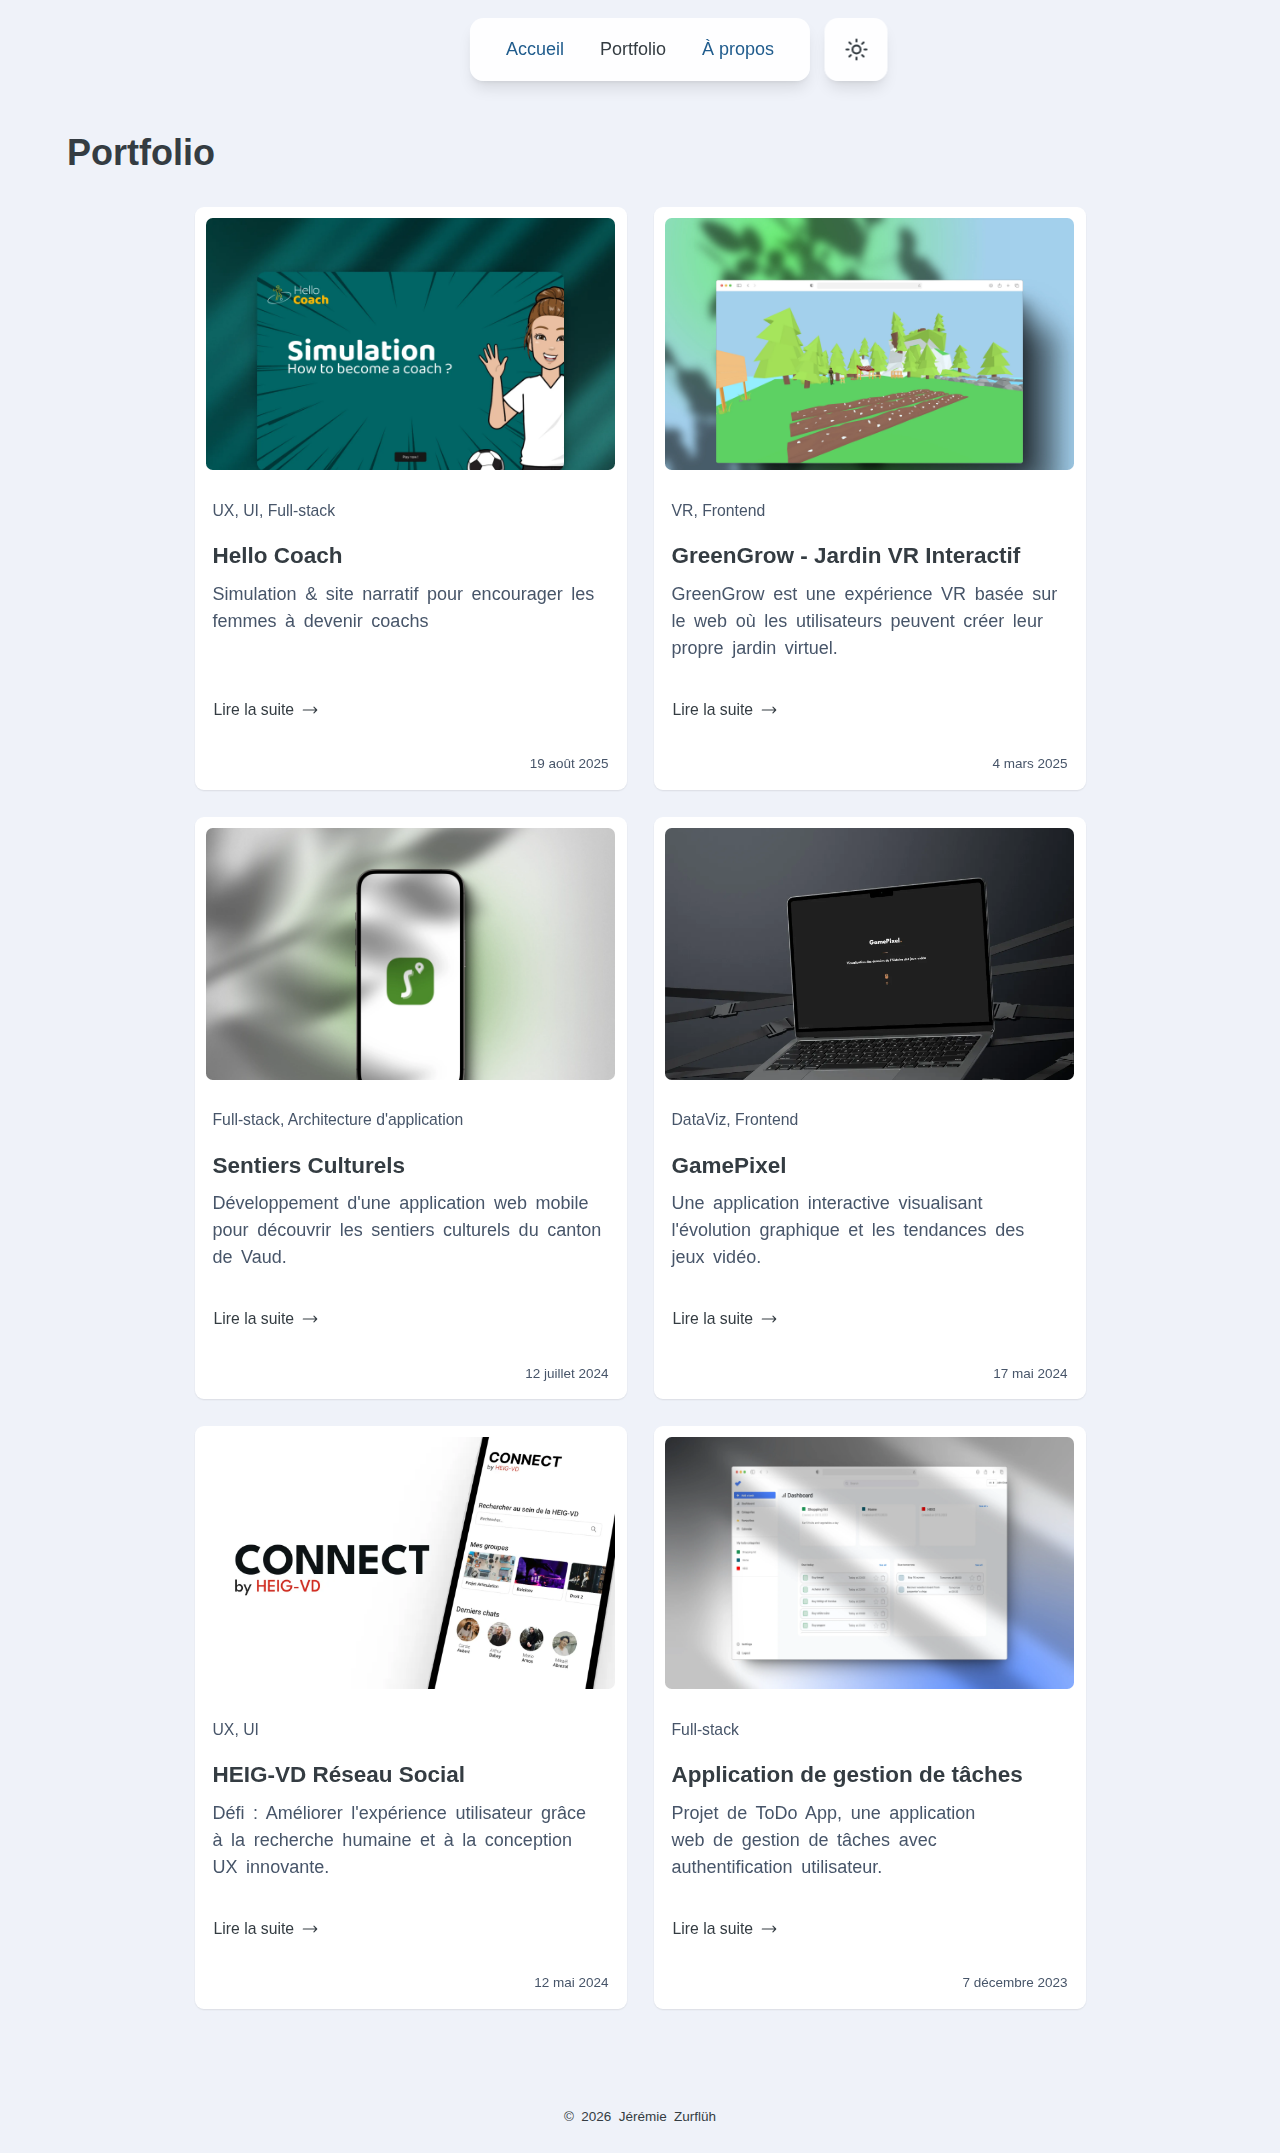
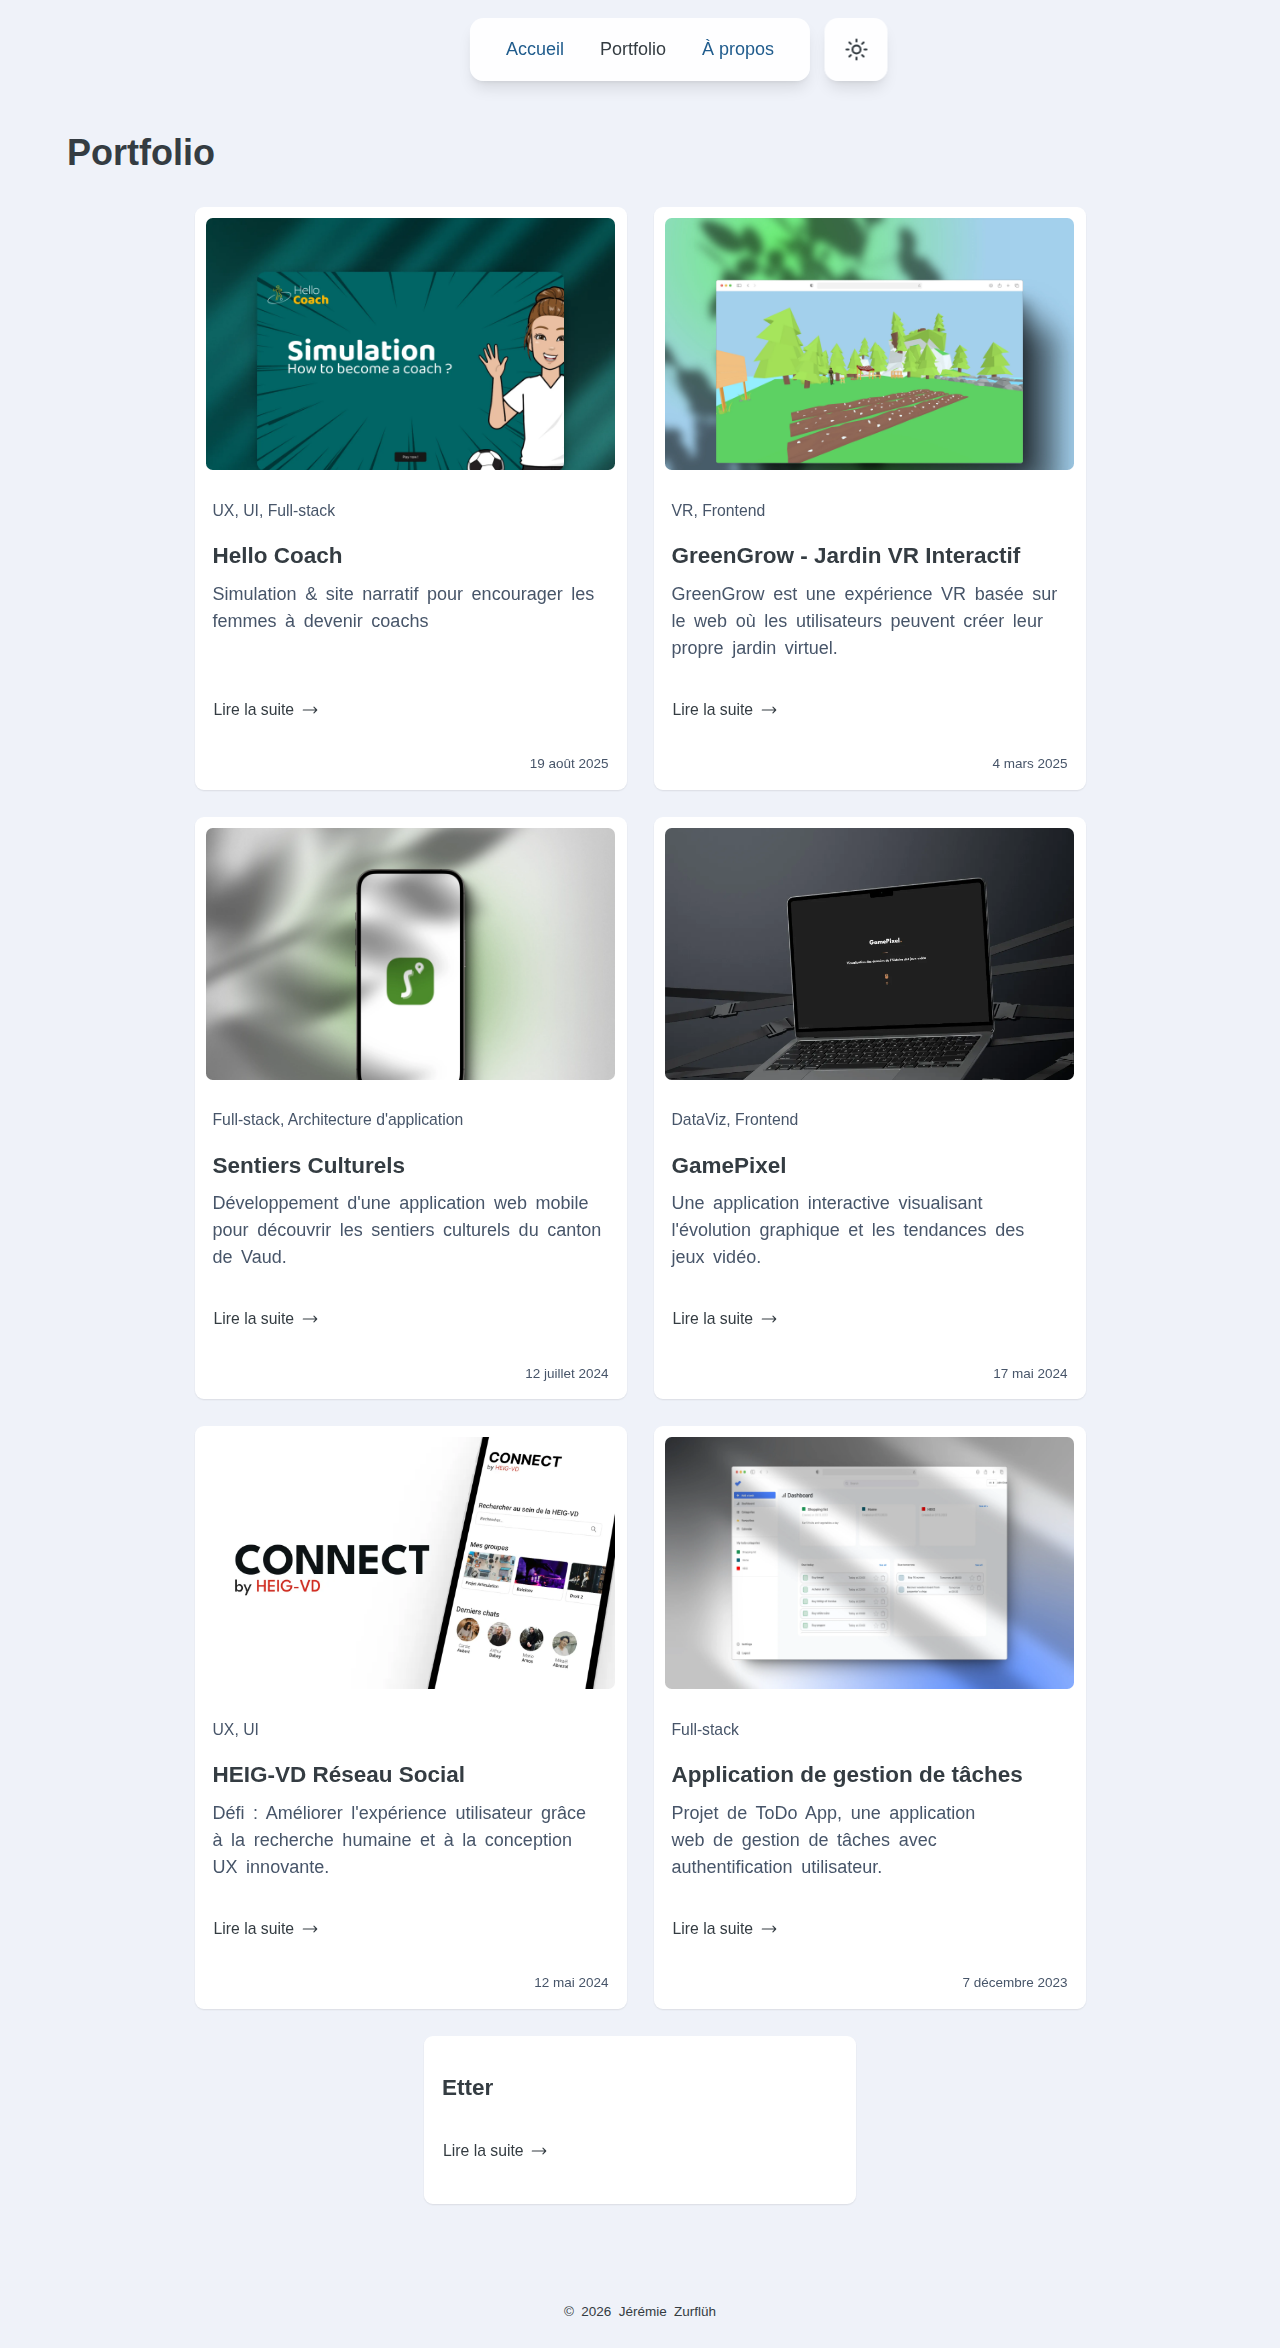
Merge pull request #195 from zurfjereluhmie/add-etter

Pull request: feat: add new portfolio entry for 'etter'

diff --git a/content/en/portfolio/etter.md b/content/en/portfolio/etter.md
@@ -1,0 +1,103 @@
+---
+image: "portfolio/etter/cover.png"
+title: "etter"
+description: "Teaching machines to understand 'where': Bridging Natural Language and Geographic Search using LLMs"
+date: 2026-05-06
+gallery-slug: "etter"
+tags: "AI / LLMs, NLP, Geospatial, Python"
+---
+
+# {{ $doc.title }}
+
+::AppMdLinks{:links='["https://pypi.org/project/etter/", "https://github.com/geoblocks/etter", "https://geoblocks.github.io/etter/"]'}
+::
+
+## TL;DR
+
+**What it is:** An open-source Python package that uses LangChain and LLMs to translate messy, natural language geographic queries into structured, type-safe filters.
+
+**The Problem:** Standard geocoders only understand exact addresses, completely failing at spatial relationships like "near", "inside", or "south of".
+
+**The Solution:** A provider-agnostic tool that extracts these complex spatial relationships and outputs strictly typed Pydantic models ready for downstream spatial databases like PostGIS.
+
+## Teaching machines to understand "Where"
+
+Search engines have always been incredibly good at finding _what_ we are looking for, but they consistently struggle with _where_.
+
+When a user types a query like _"hiking trails within 5km of a train station north of Lausanne,"_ traditional text search breaks down. The system needs to separate the activity ("hiking trails") from complex, multi-layered geographic filters. Standard geocoders fail here because they are designed to return coordinates for an exact place name, they don't understand relational concepts or human geography.
+
+To solve this, [Frédéric Junod](https://www.linkedin.com/in/fredericjunod/) and I built **etter**: a Python package that transforms natural language location queries into structured, actionable geographic filters. Powered by Large Language Models (LLMs), `etter` extracts spatial relationships, distances, and reference locations, acting as a highly specialized translation layer between human thought and spatial databases.
+
+::AppGallery{baseUrl="/img/portfolio/etter" :imagesUrl='["etter-1.png", "etter-2.png"]'}
+::
+
+## The Swiss origin: What is an "etter"?
+
+The inspiration for this project was born on the shores of Lake Geneva, dealing with local geographic datasets. We named the package **etter** (pronounced /ˈɛtɐ/). In Swiss German, an _etter_ is the boundary or enclosure marking the edge of a village or commune, a natural demarcation between settled and unsettled land.
+
+We felt this was the perfect metaphor for what the package does: it draws a clear programmatic boundary around the geographic intent of a user's prompt. To prove the concept, we built our initial demo API server combining `etter`'s query parsing with local geographic resolution using [SwissNames3D](https://www.swisstopo.admin.ch/en/landscape-model-swissnames3d) data.
+
+## The architecture
+
+We developed `etter` with a strict, UNIX-like philosophy: do one thing and do it perfectly. `etter`'s sole responsibility is extracting the geographic filter.
+
+If a user searches for _"vegetarian restaurants with children's menus around 2 miles from Lake Geneva"_, the architecture handles it by letting the **Parent App** identify the features (_"restaurants"_, _"vegetarian"_, _"with children"_), while **etter** explicitly ignores the attributes and focuses entirely on the geography.
+
+### How it works: The three-layer pipeline
+
+To keep the system modular and predictable, we designed `etter` around a three-step architecture:
+
+**Layer 1 | Parsing.** Everything begins with the `GeoFilterParser`. This layer tasks the LLM with interpreting the natural language prompt and extracting the core geographic constraints: the reference location (e.g., "Lac Léman" or "Rhône"), the spatial relationship (e.g., "north_of" or "right_bank"), and any distance values. To prevent unpredictable AI outputs from breaking the application, the LLM is forced to return a strictly typed Pydantic `GeoQuery` model. This perfectly isolates the semantic heavy lifting from the rest of the codebase.
+
+**Layer 2 | Resolution.** Next, the `GeoDataSource` translates the text-based reference location into actual geometry. Out of the box, we provide adapters for PostGIS, [SwissNames3D](https://www.swisstopo.admin.ch/en/landscape-model-swissnames3d) (Swiss toponymy), and [IGN BD-CARTO](https://cartes.gouv.fr/rechercher-une-donnee/dataset/IGNF_BD-CARTO?redirected_from=geoservices.ign.fr) (French geography). However, we built this layer to be completely backend-agnostic. Because it relies on a simple Python interface, developers can easily bind it to their own REST APIs, custom spatial databases, or even static GeoJSON files.
+
+**Layer 3 | Spatial operations.** Finally, the `apply_spatial_relation()` function physically shapes the geometry to match the user's intent. This is where the spatial math happens. "North of Lausanne" is computed as a geometric sector pointing north. "On the shores of Lake Geneva" calculates a ring buffer around the lake's perimeter while precisely subtracting the water area itself. It can even handle complex directional logic, like computing the flow direction of a river to correctly draw a buffer exclusively on the "right bank."
+
+### Key features under the hood
+
+- **Structured output:** Transforming messy natural language into strictly typed Pydantic models ensures complete type safety for downstream database operations. We implemented strict confidence thresholds (`confidence_threshold`) to reject ambiguous queries.
+- **LLM agnostic:** Built on LangChain, `etter` is provider-agnostic by design. You can plug in OpenAI, Anthropic, or locally hosted open-source models depending on your infrastructure and privacy needs.
+- **Real-time streaming:** Waiting for an LLM breaks user immersion. We built-in streaming support (`parse_stream`) that yields real-time reasoning events. In a web UI, this provides feedback where the user sees the model "thinking" and drawing GeoJSON.
+- **Multilingual parsing:** Because it leverages LLMs, the package natively understands English, French, German, Italian, and more without maintaining separate parsing logic.
+
+## Global scope and application
+
+While `etter` started with Swiss data on the shores of Lake Geneva, its architecture is inherently global. Because LLMs have ingested vast amounts of global data, the package fundamentally understands the geography of the entire world.
+
+Whether an application needs to parse _"beaches near Sydney"_ or _"parcs au sud de Paris"_, `etter` provides a standardized, scalable way for modern search engines, real estate platforms, and routing applications anywhere in the world to seamlessly interpret human geography.
+
+## Tech stack
+
+- [LangChain](https://docs.langchain.com/oss/python/langchain/overview) for LLM integration (OpenAI, Anthropic, Local).
+- [Shapely](https://shapely.readthedocs.io/en/stable/) for geometric operations and spatial reasoning.
+- [Pydantic](https://pydantic.dev/docs/) for structured output with full type safety throughout the pipeline.
+
+### What it looks like in code
+
+installation:
+
+```
+pip install etter
+# or with PostGIS support:
+pip install etter[postgis]
+```
+
+usage:
+
+```python
+from langchain.chat_models import init_chat_model
+from etter import GeoFilterParser
+
+llm = init_chat_model(model="gpt-4o", temperature=0, api_key="...")
+parser = GeoFilterParser(llm=llm)
+
+result = parser.parse("on the shores of Lake Geneva")
+# result.spatial_relation → "on_shores_of"
+# result.reference_location → "Lake Geneva"
+# result.confidence → 0.97
+```
+
+Layer 2 and 3 resolve the location and produce the final geometry. The demo API ships with [SwissNames3D](https://www.swisstopo.admin.ch/en/landscape-model-swissnames3d) and [IGN BD-CARTO](https://cartes.gouv.fr/rechercher-une-donnee/dataset/IGNF_BD-CARTO?redirected_from=geoservices.ign.fr) to show the complete end-to-end flow.
+
+::AppGallery{baseUrl="/img/portfolio/etter" :imagesUrl='["etter-3.png"]'}
+::

diff --git a/content/fr/portfolio/etter.md b/content/fr/portfolio/etter.md
@@ -1,0 +1,93 @@
+# {{ $doc.title }}
+
+::AppMdLinks{:links='["https://pypi.org/project/etter/", "https://github.com/geoblocks/etter", "https://geoblocks.github.io/etter/"]'}
+::
+
+## TL;DR
+
+**Ce que c'est :** Un package Python open-source qui utilise LangChain et les LLM pour traduire des requêtes géographiques imprécises en langage naturel en filtres structurés et fortement typés.
+
+**Le problème :** Les géocodeurs standards ne comprennent que les adresses exactes et échouent complètement face à des relations spatiales telles que "près de", "à l'intérieur de" ou "au sud de".
+
+**La solution :** Un outil agnostique vis-à-vis du fournisseur (provider) qui extrait ces relations spatiales complexes et génère des modèles Pydantic strictement typés, prêts pour les bases de données spatiales en aval comme PostGIS.
+
+## Apprendre aux machines à comprendre le « où »
+
+Les moteurs de recherche ont toujours été incroyablement performants pour trouver _ce_ que nous cherchons, mais ils rencontrent systématiquement des difficultés avec le _où_.
+
+Lorsqu'un utilisateur tape une requête comme _"sentiers de randonnée à moins de 5 km d'une gare au nord de Lausanne"_, la recherche textuelle traditionnelle atteint ses limites. Le système doit séparer l'activité ("sentiers de randonnée") des filtres géographiques complexes et à plusieurs niveaux. Les géocodeurs standards échouent ici car ils sont conçus pour renvoyer des coordonnées correspondant au nom exact d'un lieu ; ils ne comprennent pas les concepts relationnels ni la géographie humaine.
+
+Pour résoudre ce problème, [Frédéric Junod](https://www.linkedin.com/in/fredericjunod/) et moi-même avons créé **etter** : un package Python qui transforme les requêtes de localisation en langage naturel en filtres géographiques structurés et exploitables. Propulsé par de grands modèles de langage (LLM), `etter` extrait les relations spatiales, les distances et les lieux de référence, agissant comme une couche de traduction hautement spécialisée entre la pensée humaine et les bases de données spatiales.
+
+::AppGallery{baseUrl="/img/portfolio/etter" :imagesUrl='["etter-1.png", "etter-2.png"]'}
+::
+
+## L'origine suisse : Qu'est-ce qu'un « etter » ?
+
+L'inspiration pour ce projet est née sur les rives du lac Léman, lors du traitement de jeux de données géographiques locaux. Nous avons nommé le package **etter** (prononcé /ˈɛtɐ/). En suisse allemand, un _etter_ est la limite ou la clôture marquant le bord d'un village ou d'une commune, une démarcation naturelle entre les zones habitées et non habitées.
+
+Nous avons estimé que c'était la métaphore parfaite pour ce que fait le package : il dessine une frontière programmatique claire autour de l'intention géographique de la requête d'un utilisateur. Pour prouver le concept, nous avons construit notre premier serveur API de démonstration combinant l'analyse des requêtes d'`etter` avec une résolution géographique locale utilisant les données de [SwissNames3D](https://www.swisstopo.admin.ch/en/landscape-model-swissnames3d).
+
+## L'architecture
+
+Nous avons développé `etter` avec une philosophie stricte, de type UNIX : faire une seule chose et la faire parfaitement. La seule responsabilité d'`etter` est d'extraire le filtre géographique.
+
+Si un utilisateur cherche _"restaurants végétariens avec menu enfant à environ 2 miles du lac Léman"_, l'architecture le gère en laissant l'**Application Parente** identifier les entités (_"restaurants"_, _"végétariens"_, _"avec menu enfant"_), tandis qu'**etter** ignore explicitement les attributs et se concentre entièrement sur la géographie.
+
+### Comment ça marche : le pipeline à trois couches
+
+Pour garder un système modulaire et prévisible, nous avons conçu `etter` autour d'une architecture en trois étapes :
+
+**Couche 1 | L'analyse (Parsing).** Tout commence avec le `GeoFilterParser`. Cette couche charge le LLM d'interpréter la requête en langage naturel et d'en extraire les contraintes géographiques fondamentales : le lieu de référence (par ex., "Lac Léman" ou "Rhône"), la relation spatiale (par ex., "north_of" ou "right_bank"), et les éventuelles valeurs de distance. Pour éviter que des réponses imprévisibles de l'IA ne fassent planter l'application, le LLM est contraint de renvoyer un modèle Pydantic `GeoQuery` strictement typé. Cela isole parfaitement le gros du travail sémantique du reste du code.
+
+**Couche 2 | La résolution.** Ensuite, la `GeoDataSource` traduit le lieu de référence textuel en géométrie réelle. Par défaut, nous fournissons des adaptateurs pour PostGIS,[SwissNames3D](https://www.swisstopo.admin.ch/en/landscape-model-swissnames3d) (toponymie suisse) et la [BD-CARTO de l'IGN](https://cartes.gouv.fr/rechercher-une-donnee/dataset/IGNF_BD-CARTO?redirected_from=geoservices.ign.fr) (géographie française). Cependant, nous avons construit cette couche pour qu'elle soit complètement indépendante du backend. Comme elle repose sur une interface Python simple, les développeurs peuvent facilement la relier à leurs propres API REST, à des bases de données spatiales personnalisées, ou même à des fichiers GeoJSON statiques.
+
+**Couche 3 | Les opérations spatiales.** Enfin, la fonction `apply_spatial_relation()` façonne physiquement la géométrie pour qu'elle corresponde à l'intention de l'utilisateur. C'est ici qu'interviennent les mathématiques spatiales. "Au nord de Lausanne" est calculé comme un secteur géométrique pointant vers le nord. "Sur les rives du lac Léman" calcule une zone tampon (ring buffer) autour du périmètre du lac tout en soustrayant précisément la surface en eau elle-même. La fonction peut même gérer une logique directionnelle complexe, comme calculer le sens d'écoulement d'une rivière pour dessiner correctement une zone tampon exclusivement sur la "rive droite".
+
+### Fonctionnalités clés sous le capot
+
+- **Sortie structurée :** Transformer un langage naturel imprécis en modèles Pydantic strictement typés garantit une sécurité de type totale pour les opérations de base de données en aval. Nous avons mis en place des seuils de confiance stricts (`confidence_threshold`) pour rejeter les requêtes ambiguës.
+- **Agnostique au LLM :** Construit sur LangChain, `etter` est par conception indépendant du fournisseur. Vous pouvez y brancher OpenAI, Anthropic, ou des modèles open-source hébergés localement en fonction de votre infrastructure et de vos exigences de confidentialité.
+- **Streaming en temps réel :** Attendre la réponse d'un LLM brise l'immersion de l'utilisateur. Nous avons intégré la prise en charge du streaming (`parse_stream`) qui renvoie des événements de raisonnement en temps réel. Dans une interface web, cela fournit un retour visuel où l'utilisateur voit le modèle "réfléchir" et dessiner du GeoJSON.
+- **Analyse multilingue :** Parce qu'il s'appuie sur des LLM, le package comprend nativement l'anglais, le français, l'allemand, l'italien et d'autres langues sans avoir à maintenir des logiques de parsing séparées.
+
+## Portée mondiale et applications
+
+Bien qu'`etter` ait débuté avec des données suisses sur les rives du lac Léman, son architecture est fondamentalement mondiale. Les LLM ayant ingéré d'énormes quantités de données mondiales, le package comprend par nature la géographie du monde entier.
+
+Qu'une application ait besoin d'analyser _"plages près de Sydney"_ ou _"parcs au sud de Paris"_, `etter` offre un moyen standardisé et évolutif pour les moteurs de recherche modernes, les plateformes immobilières et les applications d'itinéraires partout dans le monde d'interpréter de manière fluide la géographie humaine.
+
+## Stack technique
+
+- [LangChain](https://docs.langchain.com/oss/python/langchain/overview) pour l'intégration des LLM (OpenAI, Anthropic, Local). -[Shapely](https://shapely.readthedocs.io/en/stable/) pour les opérations géométriques et le raisonnement spatial.
+- [Pydantic](https://pydantic.dev/docs/) pour des sorties structurées avec une sécurité de type complète tout au long du pipeline.
+
+### À quoi cela ressemble dans le code
+
+installation:
+
+```
+pip install etter
+# ou avec le support de PostGIS :
+pip install etter[postgis]
+```
+
+utilisation :
+
+```python
+from langchain.chat_models import init_chat_model
+from etter import GeoFilterParser
+
+llm = init_chat_model(model="gpt-4o", temperature=0, api_key="...")
+parser = GeoFilterParser(llm=llm)
+
+result = parser.parse("sur les rives du lac Léman")
+# result.spatial_relation → "on_shores_of"
+# result.reference_location → "Lac Léman"
+# result.confidence → 0.97
+```
+
+Les couches 2 et 3 résolvent l'emplacement et produisent la géométrie finale. L'API de démonstration est livrée avec [SwissNames3D](https://www.swisstopo.admin.ch/en/landscape-model-swissnames3d) et [IGN BD-CARTO](https://cartes.gouv.fr/rechercher-une-donnee/dataset/IGNF_BD-CARTO?redirected_from=geoservices.ign.fr) pour montrer le flux complet de bout en bout.
+
+::AppGallery{baseUrl="/img/portfolio/etter" :imagesUrl='["etter-3.png"]'}
+::